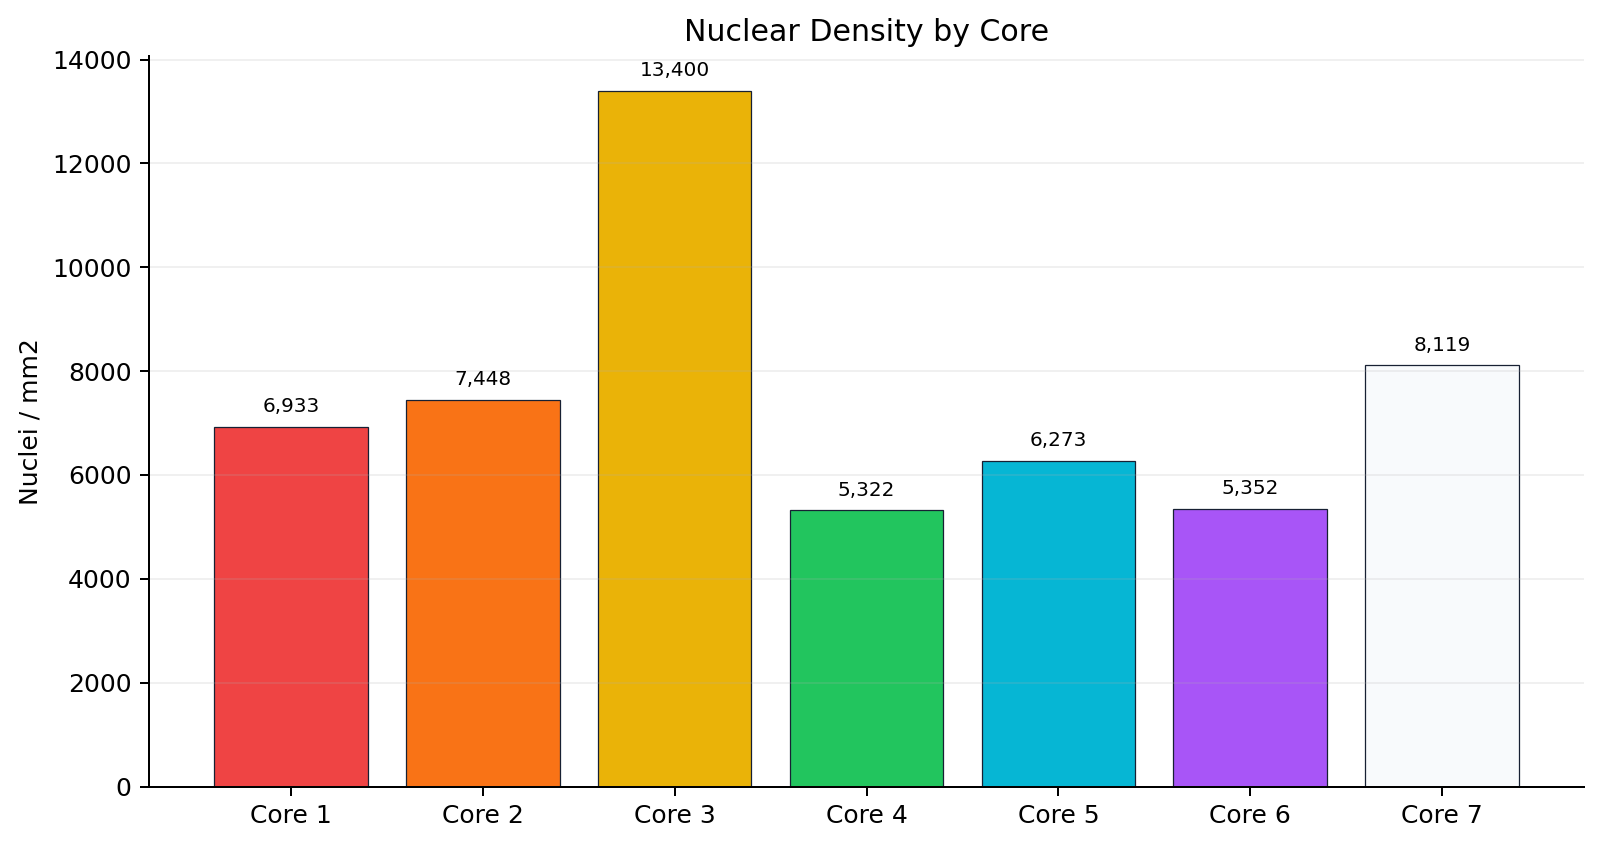
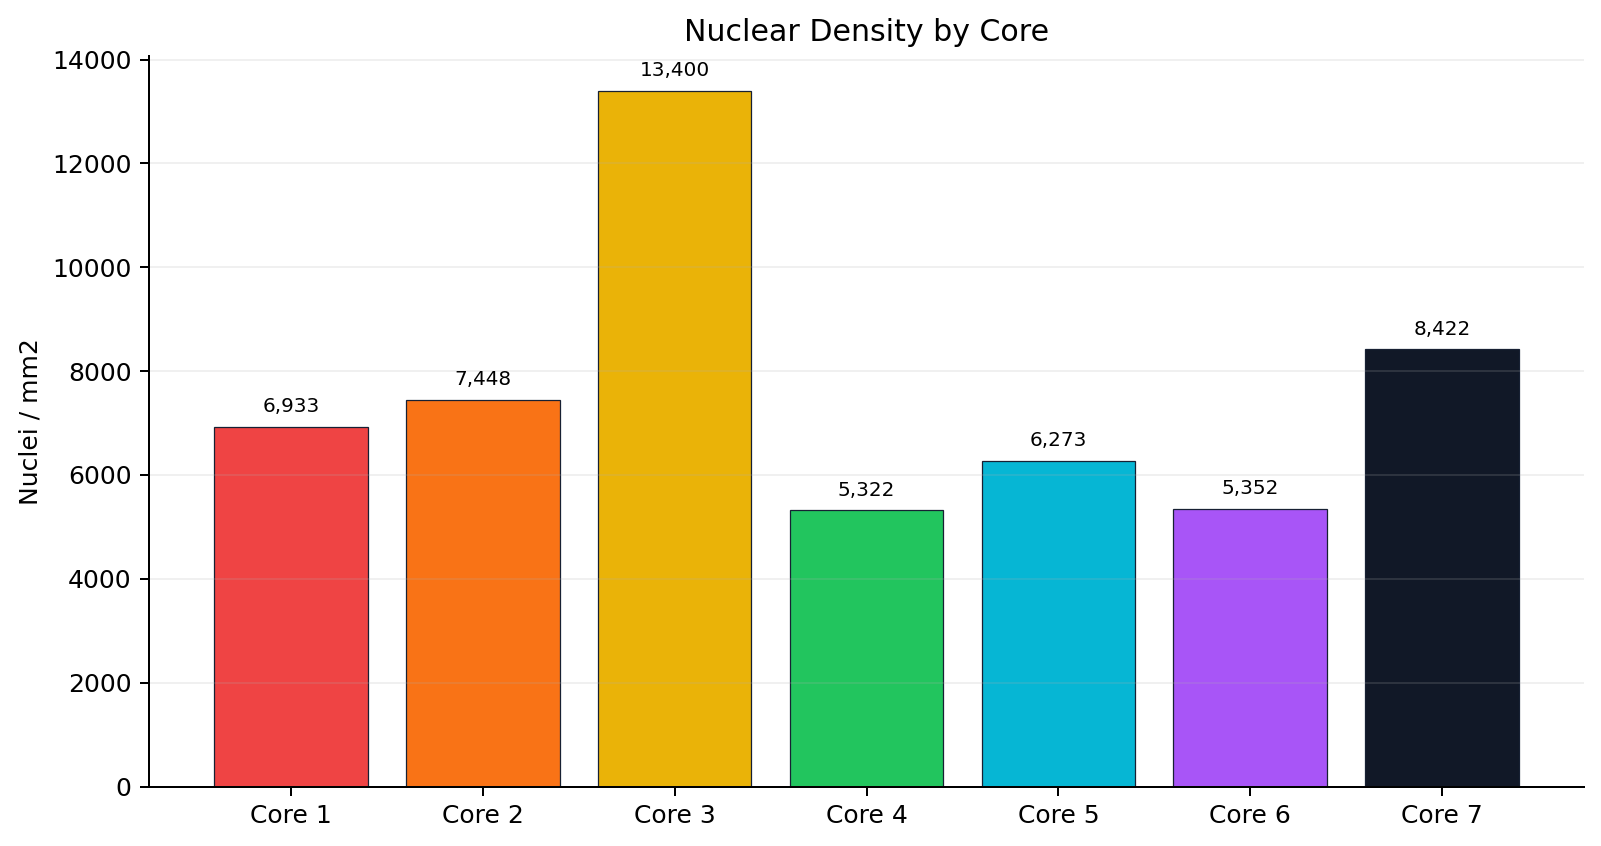
Expand Core 7 inclusion boundary

Changed region(s): [[0.8432, 0.3688, 0.9681, 0.9527]]

diff --git a/scripts/run_1path_analysis_pipeline.py b/scripts/run_1path_analysis_pipeline.py
@@ -41,6 +41,12 @@ PROB_THRESH = {
     7: 0.10,
 }
 CORE_COLORS = ["#ef4444", "#f97316", "#eab308", "#22c55e", "#06b6d4", "#a855f7", "#111827"]
+INCLUSION_RADIUS_MULT = {
+    # Core 7 has a small marginal tissue/cell area just outside the visually
+    # best-fit core circle. Keep the displayed circle tight, but use this
+    # slightly wider invisible boundary for assigning nuclei and patches.
+    7: 1.12,
+}
 
 
 def encode_jpeg(image, quality=92, max_size=None):
@@ -159,7 +165,8 @@ def segment_slide(slide, model, cores, source_mpp):
         print(f"Processing 1-path core {core_num}/7", flush=True)
         cx = core["x_full"]
         cy = core["y_full"]
-        radius_model = core["radius_full"] / model_scale
+        inclusion_full_r = core["radius_full"] * INCLUSION_RADIUS_MULT.get(core_num, 1.0)
+        radius_model = inclusion_full_r / model_scale
         core_size_model = max(int(radius_model * 2.2), 1024)
         prob_thresh = PROB_THRESH[core_num]
         raw_count = 0
@@ -251,7 +258,8 @@ def export_payload(slide, model, df, cores, source_mpp, model_scale, read_size, 
         color = CORE_COLORS[core_num - 1]
         lv1_scale = float(slide.level_downsamples[1])
         full_r = core["radius_full"]
-        r1 = int(full_r / lv1_scale)
+        inclusion_full_r = full_r * INCLUSION_RADIUS_MULT.get(core_num, 1.0)
+        r1 = int(inclusion_full_r / lv1_scale)
         size1 = r1 * 2 + 40
         origin_x = int(core["x_full"] - (size1 * lv1_scale) / 2)
         origin_y = int(core["y_full"] - (size1 * lv1_scale) / 2)
@@ -281,7 +289,7 @@ def export_payload(slide, model, df, cores, source_mpp, model_scale, read_size, 
         }
 
         patches = []
-        radius_model = full_r / model_scale
+        radius_model = inclusion_full_r / model_scale
         core_size_model = max(int(radius_model * 2.2), 1024)
         for row_i, row in enumerate(range(0, core_size_model, GRID_STEP)):
             for col_i, col in enumerate(range(0, core_size_model, GRID_STEP)):

diff --git a/scripts/create_publication_figures.py b/scripts/create_publication_figures.py
@@ -5,6 +5,7 @@ from pathlib import Path
 
 import matplotlib.pyplot as plt
 import numpy as np
+import pandas as pd
 from PIL import Image, ImageDraw, ImageFont
 
 
@@ -77,7 +78,11 @@ def save_density(data):
 
 
 def save_slide_comparison(data):
-    rows = data["slide_comparison"]
+    comparison_csv = ROOT / "results_1path_analysis" / "slide_comparison.csv"
+    if comparison_csv.exists():
+        rows = pd.read_csv(comparison_csv).to_dict("records")
+    else:
+        rows = data["slide_comparison"]
     names = [row["file"].replace(".svs", "") for row in rows]
     mpp = [float(row["mpp"]) for row in rows]
     ten = [float(row["tenengrad_mean_tissue_lowest"]) for row in rows]

diff --git a/README.md b/README.md
@@ -40,7 +40,7 @@ Processing steps:
 
 ## Results
 
-Final segmentation detected **75,595 nuclei** across seven cores.
+Final segmentation detected **76,224 nuclei** across seven cores.
 
 ![Core counts](docs/figures/core_counts_1path.png)
 
